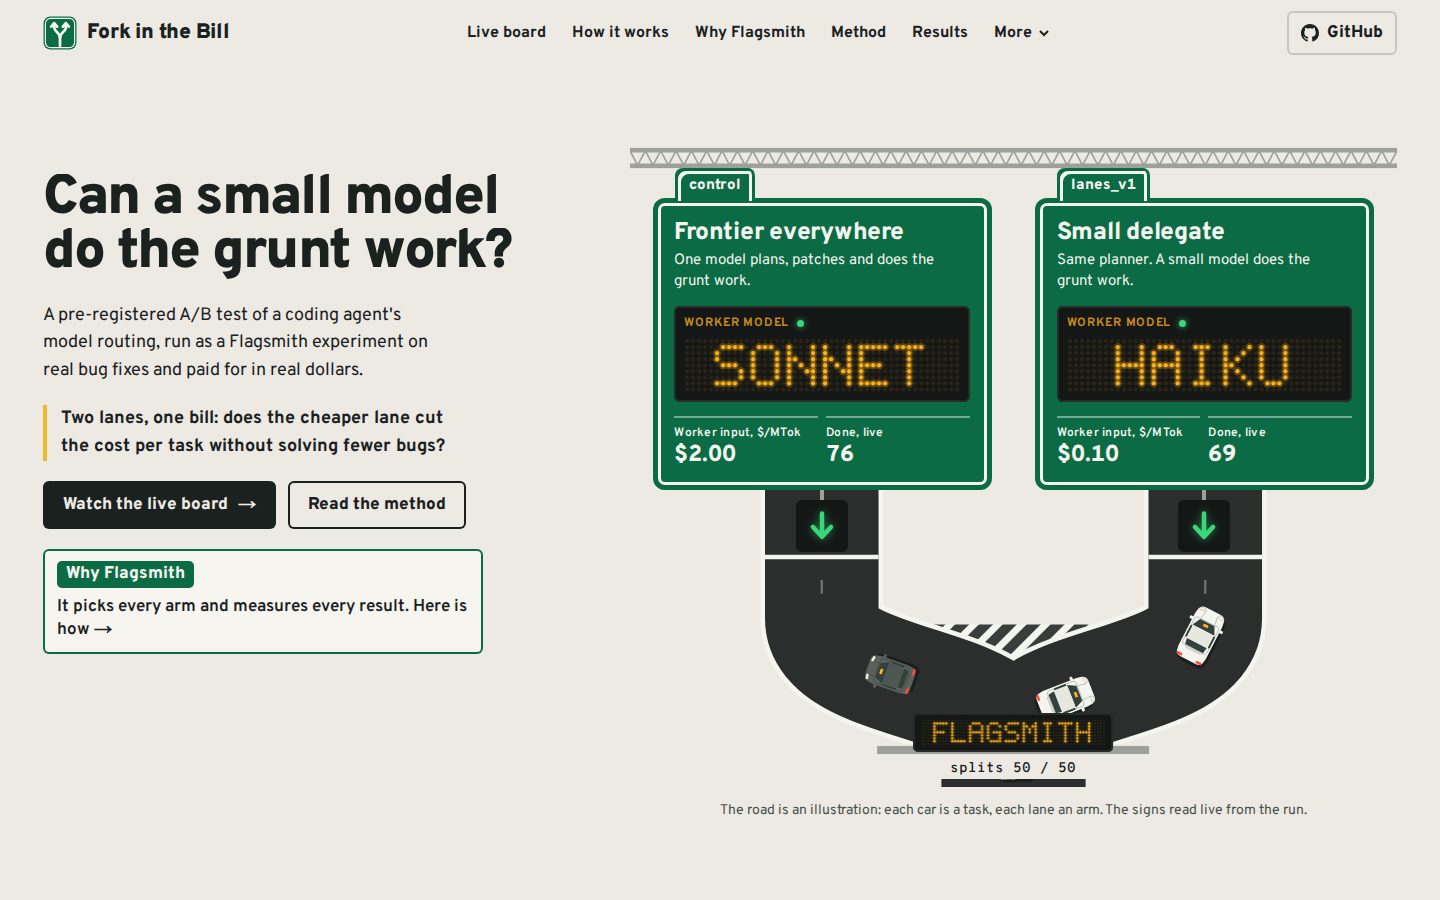
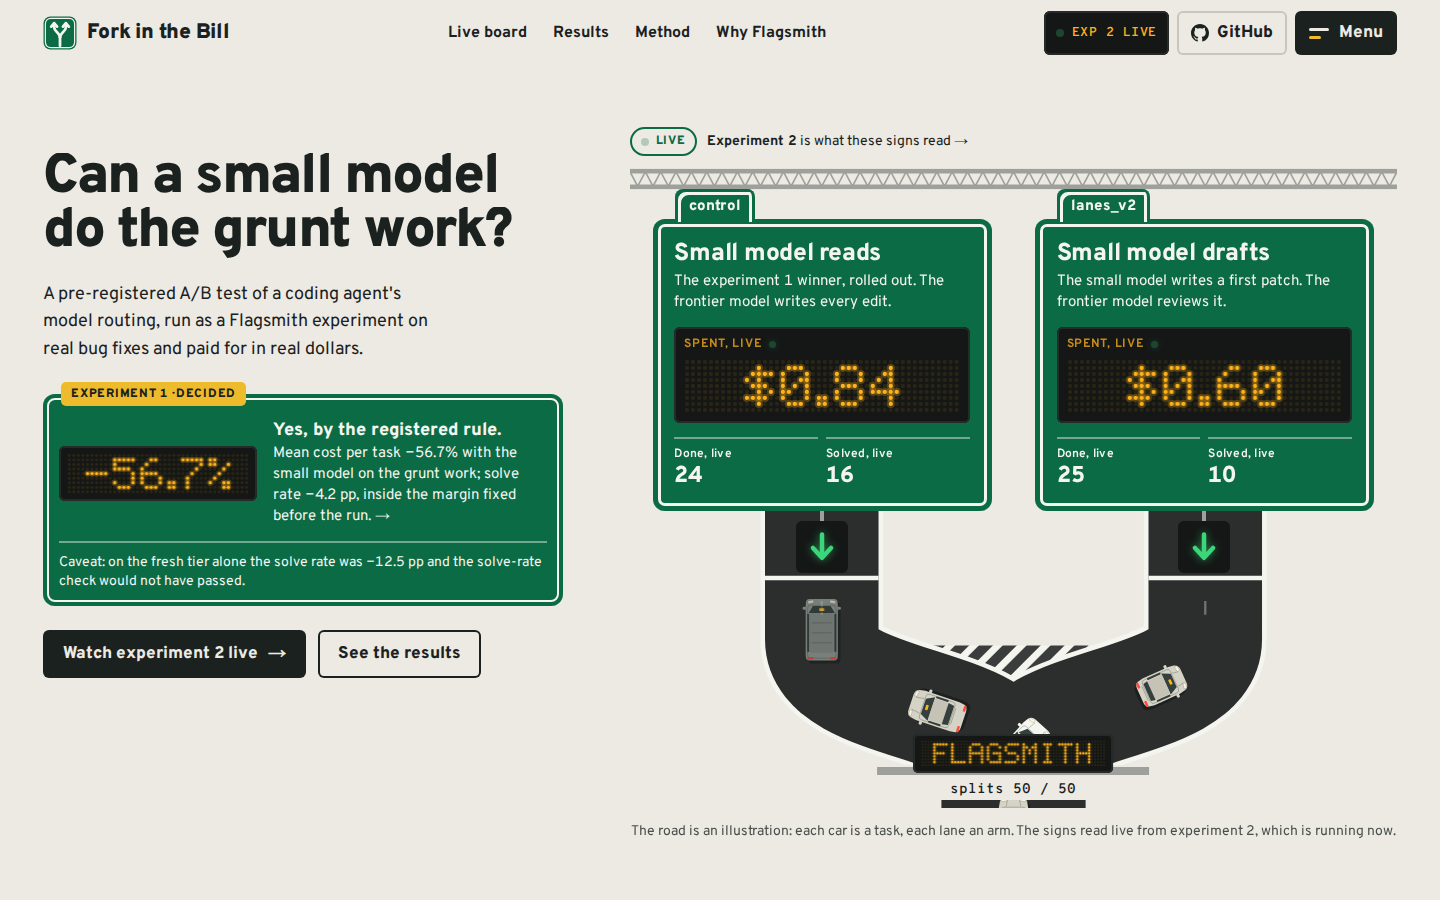
Show the live site in the README and refresh its screenshots

Changed region(s): [[0.4375, 0.1244, 0.9688, 0.9333], [0.0312, 0.1556, 0.4062, 0.7778], [0.3125, 0.0, 0.9688, 0.0622]]

diff --git a/README.md b/README.md
@@ -393,6 +393,10 @@ Three things a careful reader will ask about:
 
 ## Architecture
 
+[![The live site: the decided result, with experiment 2's running totals on the signs](docs/img/site-home.png)](https://forkbill.prashantthakur.dev)
+
+The site at [forkbill.prashantthakur.dev](https://forkbill.prashantthakur.dev) is the same data as this repository: the [live board](https://forkbill.prashantthakur.dev/live) reads the runner's feed, the [results](https://forkbill.prashantthakur.dev/results) are filled from `numbers.json` at build, and [verify](https://forkbill.prashantthakur.dev/verify) checks a real ledger's hash chain in your browser.
+
 ```mermaid
 flowchart LR
   subgraph Tasks
